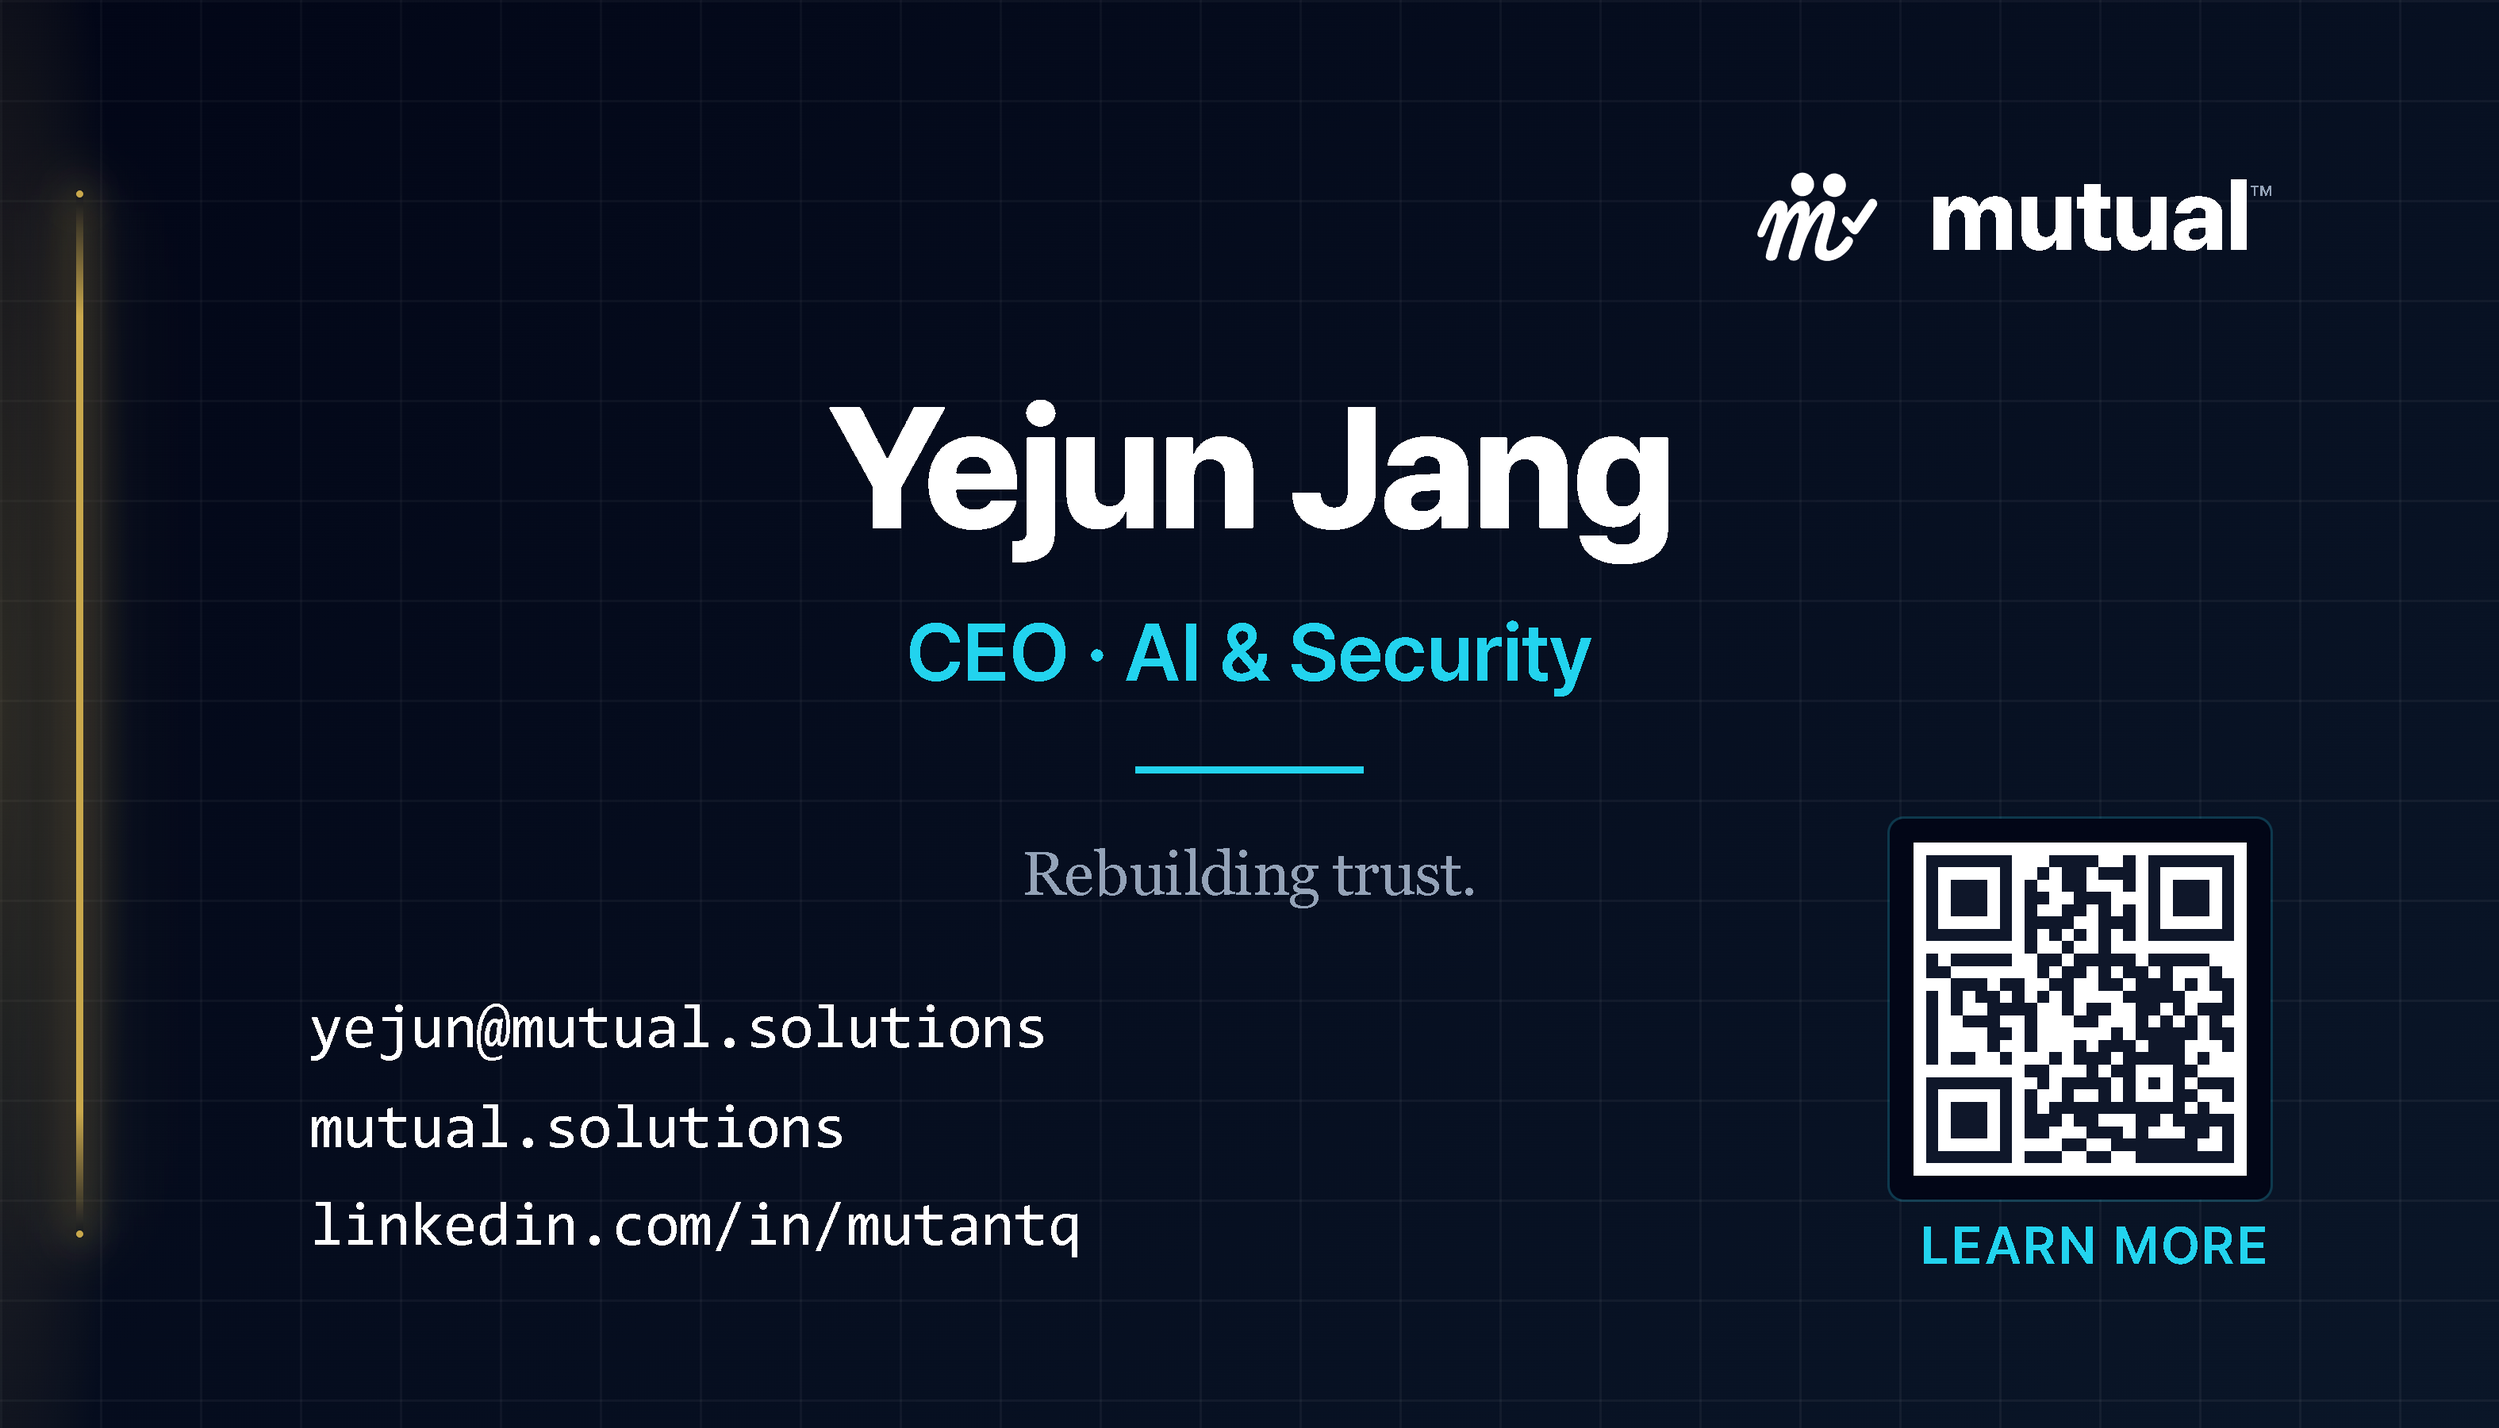
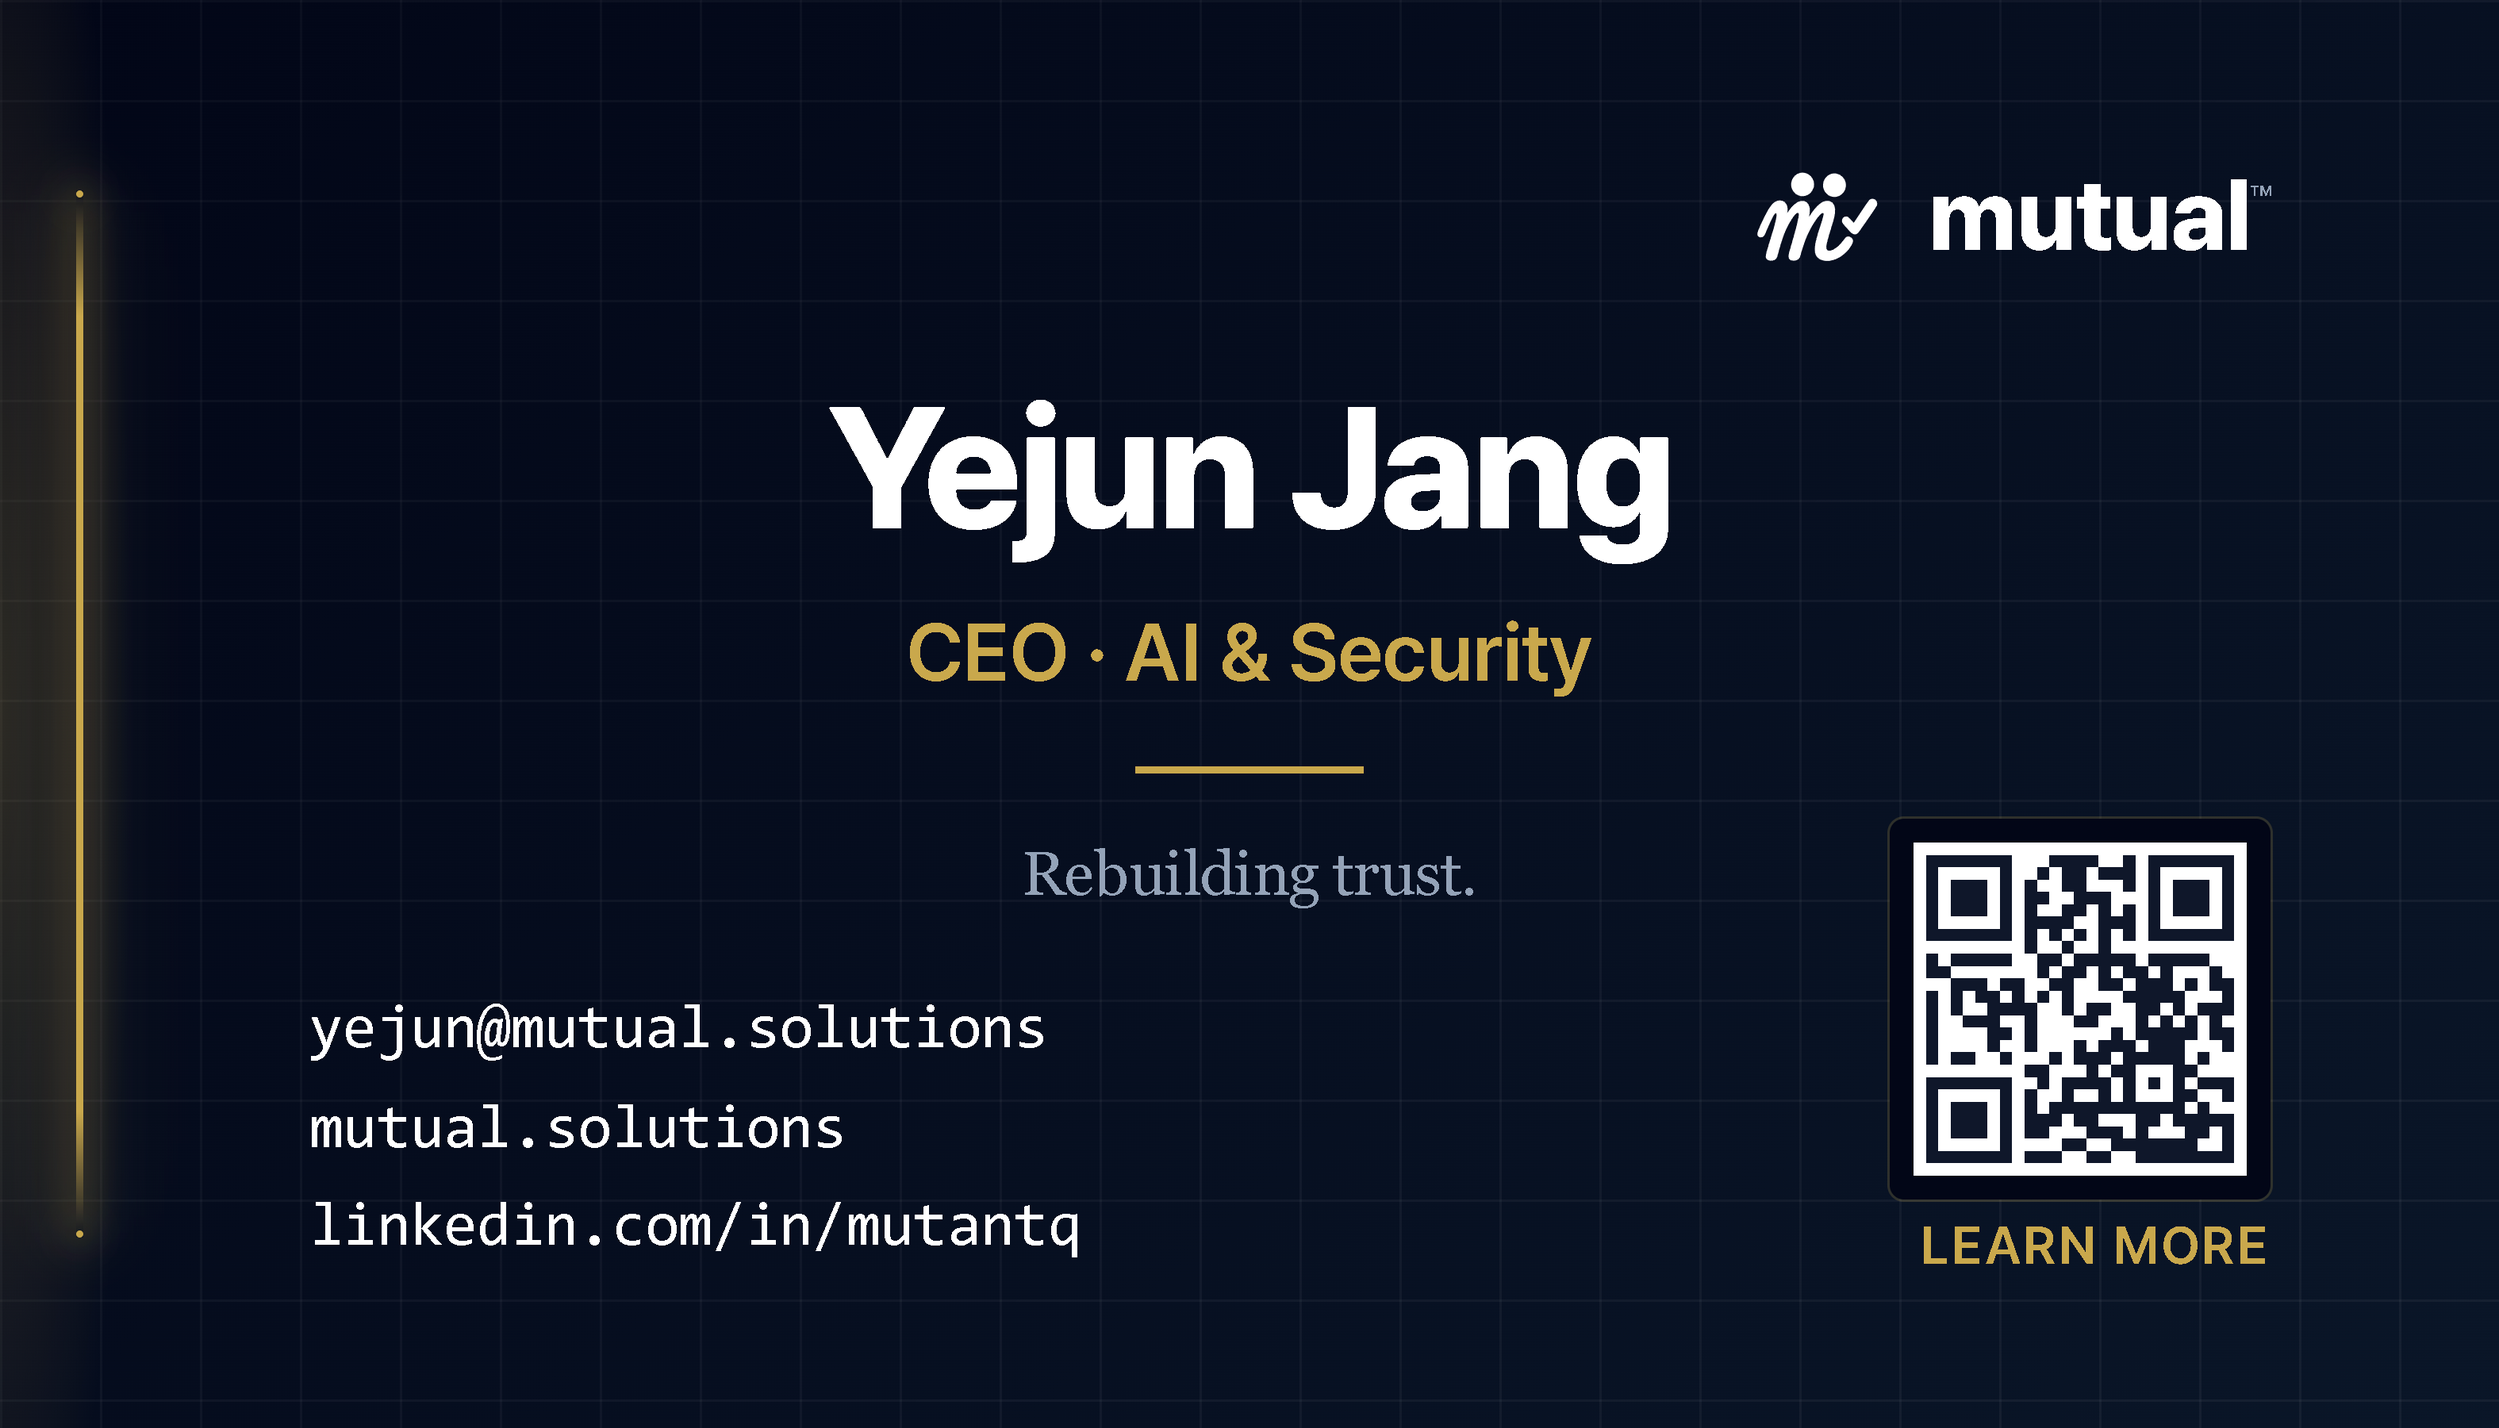
Lab Edge FEK-1 · go all gold (drop mutual cyan body accents)
FEK1_PALETTE swap:
  accent      #22d3ee mutual cyan → #c9a84c forensic gold
  accentSoft  #4a8b9c mutual teal → #8c7332 dark gold

The halo edge already used FEK1_GOLD; now title text, divider, QR
border, and "LEARN MORE / 더 알아보기" labels match. The card reads as
fully forensic-gold on near-black navy with no mutual cyan anywhere.

The other two variants (gilded + halo) keep their existing palettes —
this only affects the FEK-1 variant.

Changed region(s): [[0.3422, 0.4356, 0.6533, 0.4978], [0.7778, 0.84, 0.9022, 0.9022], [0.4667, 0.5289, 0.5289, 0.56]]

diff --git a/.canva-build/v-tech-edge-fek1-front-yejun.html b/.canva-build/v-tech-edge-fek1-front-yejun.html
@@ -5,7 +5,7 @@
 html,body{width:1050px;height:600px;background:#020617;font-family:'Pretendard','Pretendard Variable','Apple SD Gothic Neo','Malgun Gothic','Inter','Segoe UI','SF Pro Display','Helvetica Neue',Helvetica,Arial,sans-serif;color:#fff;overflow:hidden;-webkit-font-smoothing:antialiased}
 .card{position:relative;width:1050px;height:600px;background:linear-gradient(135deg,#020617 0%,#0a1628 100%);overflow:hidden}
 .grid{position:absolute;inset:0;background-image:linear-gradient(to right, rgba(255,255,255,0.05) 1px, transparent 1px), linear-gradient(to bottom, rgba(255,255,255,0.05) 1px, transparent 1px);background-size:42px 42px;mask-image:linear-gradient(135deg, rgba(0,0,0,0.6), rgba(0,0,0,0.95));-webkit-mask-image:linear-gradient(135deg, rgba(0,0,0,0.6), rgba(0,0,0,0.95))}
-.tick{position:absolute;width:18px;height:18px;border-color:#4a8b9c}
+.tick{position:absolute;width:18px;height:18px;border-color:#8c7332}
 .tl{top:42px;left:42px;border-top:1.5px solid;border-left:1.5px solid}
 .tr{top:42px;right:42px;border-top:1.5px solid;border-right:1.5px solid}
 .bl{bottom:42px;left:42px;border-bottom:1.5px solid;border-left:1.5px solid}
@@ -34,8 +34,8 @@ html,body{width:1050px;height:600px;background:#020617;font-family:'Pretendard',
   <!-- name block (English — centered, slogan on English side) -->
   <div style="position:absolute;top:160px;left:0;right:0;text-align:center;z-index:2">
     <div style="font-weight:800;font-size:72px;letter-spacing:-2.2px;color:#fff;line-height:1">Yejun Jang</div>
-    <div style="margin-top:22px;font-weight:600;font-size:34px;color:#22d3ee;letter-spacing:-0.4px">CEO · AI & Security</div>
-    <div style="margin:28px auto 0;width:96px;height:3px;background:#22d3ee"></div>
+    <div style="margin-top:22px;font-weight:600;font-size:34px;color:#c9a84c;letter-spacing:-0.4px">CEO · AI & Security</div>
+    <div style="margin:28px auto 0;width:96px;height:3px;background:#c9a84c"></div>
     <div style="margin-top:24px;padding:0 80px;font-weight:500;font-size:26px;color:#94a3b8;letter-spacing:-0.2px;line-height:1.4;font-family:'Playfair Display','Georgia','Times New Roman',serif;">Rebuilding trust.</div>
   </div>
 
@@ -47,7 +47,7 @@ html,body{width:1050px;height:600px;background:#020617;font-family:'Pretendard',
   </div>
 
   <!-- QR + English label -->
-  <img src="qr-yejun.svg" style="position:absolute;right:96px;bottom:96px;width:160px;height:160px;background:#020617;padding:10px;border-radius:6px;box-shadow:0 0 0 1px #22d3ee33;z-index:2">
-  <div style="position:absolute;right:96px;bottom:64px;font-size:22px;color:#22d3ee;letter-spacing:1px;text-align:right;width:160px;font-weight:600;z-index:2">LEARN MORE</div>
+  <img src="qr-yejun.svg" style="position:absolute;right:96px;bottom:96px;width:160px;height:160px;background:#020617;padding:10px;border-radius:6px;box-shadow:0 0 0 1px #c9a84c33;z-index:2">
+  <div style="position:absolute;right:96px;bottom:64px;font-size:22px;color:#c9a84c;letter-spacing:1px;text-align:right;width:160px;font-weight:600;z-index:2">LEARN MORE</div>
   
 </div></body></html>

diff --git a/.canva-build/v-tech-edge-fek1-front-alex.html b/.canva-build/v-tech-edge-fek1-front-alex.html
@@ -5,7 +5,7 @@
 html,body{width:1050px;height:600px;background:#020617;font-family:'Pretendard','Pretendard Variable','Apple SD Gothic Neo','Malgun Gothic','Inter','Segoe UI','SF Pro Display','Helvetica Neue',Helvetica,Arial,sans-serif;color:#fff;overflow:hidden;-webkit-font-smoothing:antialiased}
 .card{position:relative;width:1050px;height:600px;background:linear-gradient(135deg,#020617 0%,#0a1628 100%);overflow:hidden}
 .grid{position:absolute;inset:0;background-image:linear-gradient(to right, rgba(255,255,255,0.05) 1px, transparent 1px), linear-gradient(to bottom, rgba(255,255,255,0.05) 1px, transparent 1px);background-size:42px 42px;mask-image:linear-gradient(135deg, rgba(0,0,0,0.6), rgba(0,0,0,0.95));-webkit-mask-image:linear-gradient(135deg, rgba(0,0,0,0.6), rgba(0,0,0,0.95))}
-.tick{position:absolute;width:18px;height:18px;border-color:#4a8b9c}
+.tick{position:absolute;width:18px;height:18px;border-color:#8c7332}
 .tl{top:42px;left:42px;border-top:1.5px solid;border-left:1.5px solid}
 .tr{top:42px;right:42px;border-top:1.5px solid;border-right:1.5px solid}
 .bl{bottom:42px;left:42px;border-bottom:1.5px solid;border-left:1.5px solid}
@@ -34,8 +34,8 @@ html,body{width:1050px;height:600px;background:#020617;font-family:'Pretendard',
   <!-- name block (English — centered, slogan on English side) -->
   <div style="position:absolute;top:160px;left:0;right:0;text-align:center;z-index:2">
     <div style="font-weight:800;font-size:72px;letter-spacing:-2.2px;color:#fff;line-height:1">Jihoon (Alex) Park</div>
-    <div style="margin-top:22px;font-weight:600;font-size:34px;color:#22d3ee;letter-spacing:-0.4px">CTO · Hardware</div>
-    <div style="margin:28px auto 0;width:96px;height:3px;background:#22d3ee"></div>
+    <div style="margin-top:22px;font-weight:600;font-size:34px;color:#c9a84c;letter-spacing:-0.4px">CTO · Hardware</div>
+    <div style="margin:28px auto 0;width:96px;height:3px;background:#c9a84c"></div>
     <div style="margin-top:24px;padding:0 80px;font-weight:500;font-size:26px;color:#94a3b8;letter-spacing:-0.2px;line-height:1.4;font-family:'Playfair Display','Georgia','Times New Roman',serif;">Rebuilding trust.</div>
   </div>
 
@@ -47,7 +47,7 @@ html,body{width:1050px;height:600px;background:#020617;font-family:'Pretendard',
   </div>
 
   <!-- QR + English label -->
-  <img src="qr-alex.svg" style="position:absolute;right:96px;bottom:96px;width:160px;height:160px;background:#020617;padding:10px;border-radius:6px;box-shadow:0 0 0 1px #22d3ee33;z-index:2">
-  <div style="position:absolute;right:96px;bottom:64px;font-size:22px;color:#22d3ee;letter-spacing:1px;text-align:right;width:160px;font-weight:600;z-index:2">LEARN MORE</div>
+  <img src="qr-alex.svg" style="position:absolute;right:96px;bottom:96px;width:160px;height:160px;background:#020617;padding:10px;border-radius:6px;box-shadow:0 0 0 1px #c9a84c33;z-index:2">
+  <div style="position:absolute;right:96px;bottom:64px;font-size:22px;color:#c9a84c;letter-spacing:1px;text-align:right;width:160px;font-weight:600;z-index:2">LEARN MORE</div>
   
 </div></body></html>

diff --git a/.canva-build/v-tech-edge-fek1-back-alex.html b/.canva-build/v-tech-edge-fek1-back-alex.html
@@ -5,7 +5,7 @@
 html,body{width:1050px;height:600px;background:#020617;font-family:'Pretendard','Pretendard Variable','Apple SD Gothic Neo','Malgun Gothic','Inter','Segoe UI','SF Pro Display','Helvetica Neue',Helvetica,Arial,sans-serif;color:#fff;overflow:hidden;-webkit-font-smoothing:antialiased}
 .card{position:relative;width:1050px;height:600px;background:linear-gradient(135deg,#020617 0%,#0a1628 100%);overflow:hidden}
 .grid{position:absolute;inset:0;background-image:linear-gradient(to right, rgba(255,255,255,0.05) 1px, transparent 1px), linear-gradient(to bottom, rgba(255,255,255,0.05) 1px, transparent 1px);background-size:42px 42px;mask-image:linear-gradient(135deg, rgba(0,0,0,0.6), rgba(0,0,0,0.95));-webkit-mask-image:linear-gradient(135deg, rgba(0,0,0,0.6), rgba(0,0,0,0.95))}
-.tick{position:absolute;width:18px;height:18px;border-color:#4a8b9c}
+.tick{position:absolute;width:18px;height:18px;border-color:#8c7332}
 .tl{top:42px;left:42px;border-top:1.5px solid;border-left:1.5px solid}
 .tr{top:42px;right:42px;border-top:1.5px solid;border-right:1.5px solid}
 .bl{bottom:42px;left:42px;border-bottom:1.5px solid;border-left:1.5px solid}
@@ -34,8 +34,8 @@ html,body{width:1050px;height:600px;background:#020617;font-family:'Pretendard',
   <!-- name block (Korean — centered, mirrors the English front) -->
   <div style="position:absolute;top:180px;left:0;right:0;text-align:center;z-index:2">
     <div style="font-weight:800;font-size:72px;letter-spacing:-2.2px;color:#fff;line-height:1">박지훈</div>
-    <div style="margin-top:22px;font-weight:600;font-size:34px;color:#22d3ee;letter-spacing:-0.4px">CTO · 하드웨어</div>
-    <div style="margin:28px auto 0;width:96px;height:3px;background:#22d3ee"></div>
+    <div style="margin-top:22px;font-weight:600;font-size:34px;color:#c9a84c;letter-spacing:-0.4px">CTO · 하드웨어</div>
+    <div style="margin:28px auto 0;width:96px;height:3px;background:#c9a84c"></div>
   </div>
 
   <!-- contact mono block (URLs/emails are language-neutral identifiers) -->
@@ -46,6 +46,6 @@ html,body{width:1050px;height:600px;background:#020617;font-family:'Pretendard',
   </div>
 
   <!-- QR + Korean label -->
-  <img src="qr-alex.svg" style="position:absolute;right:96px;bottom:96px;width:160px;height:160px;background:#020617;padding:10px;border-radius:6px;box-shadow:0 0 0 1px #22d3ee33;z-index:2">
-  <div style="position:absolute;right:96px;bottom:64px;font-size:22px;color:#22d3ee;letter-spacing:1px;text-align:right;width:160px;font-weight:600;z-index:2">더 알아보기</div>
+  <img src="qr-alex.svg" style="position:absolute;right:96px;bottom:96px;width:160px;height:160px;background:#020617;padding:10px;border-radius:6px;box-shadow:0 0 0 1px #c9a84c33;z-index:2">
+  <div style="position:absolute;right:96px;bottom:64px;font-size:22px;color:#c9a84c;letter-spacing:1px;text-align:right;width:160px;font-weight:600;z-index:2">더 알아보기</div>
 </div></body></html>

diff --git a/.canva-build/v-tech-edge-fek1-back-yejun.html b/.canva-build/v-tech-edge-fek1-back-yejun.html
@@ -5,7 +5,7 @@
 html,body{width:1050px;height:600px;background:#020617;font-family:'Pretendard','Pretendard Variable','Apple SD Gothic Neo','Malgun Gothic','Inter','Segoe UI','SF Pro Display','Helvetica Neue',Helvetica,Arial,sans-serif;color:#fff;overflow:hidden;-webkit-font-smoothing:antialiased}
 .card{position:relative;width:1050px;height:600px;background:linear-gradient(135deg,#020617 0%,#0a1628 100%);overflow:hidden}
 .grid{position:absolute;inset:0;background-image:linear-gradient(to right, rgba(255,255,255,0.05) 1px, transparent 1px), linear-gradient(to bottom, rgba(255,255,255,0.05) 1px, transparent 1px);background-size:42px 42px;mask-image:linear-gradient(135deg, rgba(0,0,0,0.6), rgba(0,0,0,0.95));-webkit-mask-image:linear-gradient(135deg, rgba(0,0,0,0.6), rgba(0,0,0,0.95))}
-.tick{position:absolute;width:18px;height:18px;border-color:#4a8b9c}
+.tick{position:absolute;width:18px;height:18px;border-color:#8c7332}
 .tl{top:42px;left:42px;border-top:1.5px solid;border-left:1.5px solid}
 .tr{top:42px;right:42px;border-top:1.5px solid;border-right:1.5px solid}
 .bl{bottom:42px;left:42px;border-bottom:1.5px solid;border-left:1.5px solid}
@@ -34,8 +34,8 @@ html,body{width:1050px;height:600px;background:#020617;font-family:'Pretendard',
   <!-- name block (Korean — centered, mirrors the English front) -->
   <div style="position:absolute;top:180px;left:0;right:0;text-align:center;z-index:2">
     <div style="font-weight:800;font-size:72px;letter-spacing:-2.2px;color:#fff;line-height:1">장예준</div>
-    <div style="margin-top:22px;font-weight:600;font-size:34px;color:#22d3ee;letter-spacing:-0.4px">CEO · AI 보안</div>
-    <div style="margin:28px auto 0;width:96px;height:3px;background:#22d3ee"></div>
+    <div style="margin-top:22px;font-weight:600;font-size:34px;color:#c9a84c;letter-spacing:-0.4px">CEO · AI 보안</div>
+    <div style="margin:28px auto 0;width:96px;height:3px;background:#c9a84c"></div>
   </div>
 
   <!-- contact mono block (URLs/emails are language-neutral identifiers) -->
@@ -46,6 +46,6 @@ html,body{width:1050px;height:600px;background:#020617;font-family:'Pretendard',
   </div>
 
   <!-- QR + Korean label -->
-  <img src="qr-yejun.svg" style="position:absolute;right:96px;bottom:96px;width:160px;height:160px;background:#020617;padding:10px;border-radius:6px;box-shadow:0 0 0 1px #22d3ee33;z-index:2">
-  <div style="position:absolute;right:96px;bottom:64px;font-size:22px;color:#22d3ee;letter-spacing:1px;text-align:right;width:160px;font-weight:600;z-index:2">더 알아보기</div>
+  <img src="qr-yejun.svg" style="position:absolute;right:96px;bottom:96px;width:160px;height:160px;background:#020617;padding:10px;border-radius:6px;box-shadow:0 0 0 1px #c9a84c33;z-index:2">
+  <div style="position:absolute;right:96px;bottom:64px;font-size:22px;color:#c9a84c;letter-spacing:1px;text-align:right;width:160px;font-weight:600;z-index:2">더 알아보기</div>
 </div></body></html>
